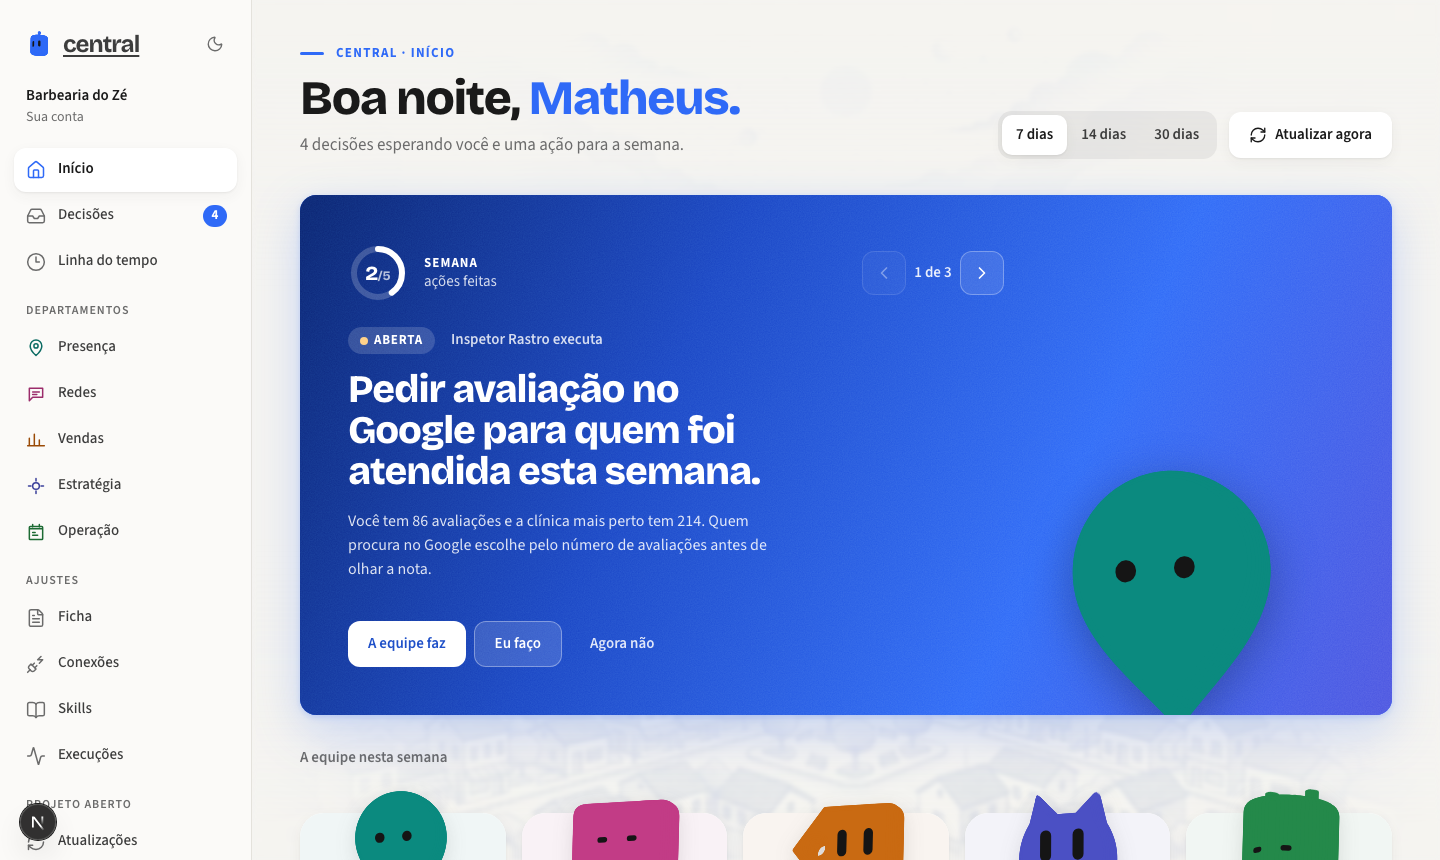
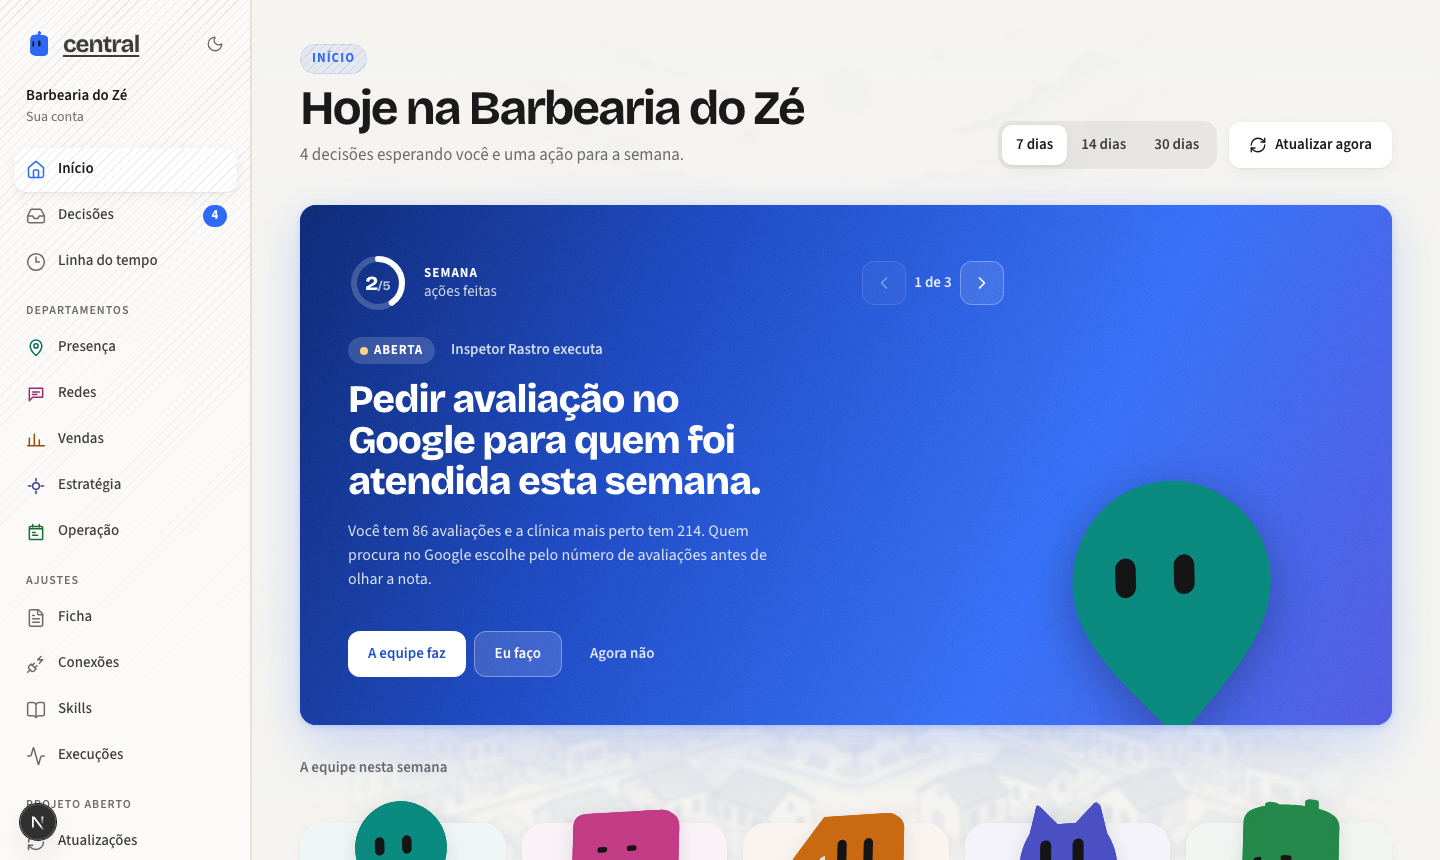
style: hachura no padrão do Garimpo (cor do chefe, hover, faixa do topo) e sidebar premium

diff --git a/src/app/globals.css b/src/app/globals.css
@@ -36,31 +36,71 @@ button, input, select, textarea { font: inherit; }
   line-height: 1;
 }
 
-/* ---------- Hachura premium (mesma do Garimpo): listras finas a 135°, que somem do canto. */
-:root { --hachura: rgba(15, 20, 25, 0.075); }
-@media (prefers-color-scheme: dark) { :root { --hachura: rgba(255, 255, 255, 0.07); } }
-.central[data-tema="escuro"] { --hachura: rgba(255, 255, 255, 0.07); }
-.central[data-tema="claro"] { --hachura: rgba(15, 20, 25, 0.075); }
-.cx-lateral, .cx-painel, .ac-lado, .ac-membro, .cx-chefe-card, .cx-cabeca { position: relative; isolation: isolate; }
-.cx-lateral::before, .cx-painel::before, .ac-lado::before, .cx-chefe-card::before {
-  content: ""; position: absolute; inset: 0; z-index: -1; border-radius: inherit; pointer-events: none;
-  background-image: repeating-linear-gradient(135deg, var(--hachura) 0 1px, transparent 1px 7px);
+/* ---------- Hachura premium (a do Garimpo, refinada).
+   Listras finas a 135°, mais fortes no canto superior direito e sumindo.
+   - todo cartão tem; nos departamentos a listra pega a cor do chefe;
+   - no hover a hachura acende um pouco;
+   - a área principal e a sidebar têm uma faixa hachurada no topo com brilho. */
+:root { --hachura: rgba(15, 20, 25, 0.075); --hachura-forte: rgba(15, 20, 25, 0.12); }
+@media (prefers-color-scheme: dark) { :root { --hachura: rgba(255, 255, 255, 0.065); --hachura-forte: rgba(255, 255, 255, 0.11); } }
+.central[data-tema="claro"] { --hachura: rgba(15, 20, 25, 0.075); --hachura-forte: rgba(15, 20, 25, 0.12); }
+.central[data-tema="escuro"] { --hachura: rgba(255, 255, 255, 0.065); --hachura-forte: rgba(255, 255, 255, 0.11); }
+
+.cx-painel, .cx-chefe-card, .cx-card, .cx-cardapio-card, .cx-carta, .ac-membro, .ac-miolo, .cx-pedagio-lista li, .cx-lista-at > li {
+  position: relative;
+  isolation: isolate;
+}
+.cx-painel::before, .cx-chefe-card::before, .cx-card::before, .cx-cardapio-card::before, .cx-carta::before, .ac-membro::before, .ac-miolo::before,
+.cx-pedagio-lista li::before, .cx-lista-at > li::before {
+  content: "";
+  position: absolute;
+  inset: 0;
+  z-index: -1;
+  border-radius: inherit;
+  pointer-events: none;
+  background-image: repeating-linear-gradient(135deg, var(--listra, var(--hachura)) 0 1px, transparent 1px 7px);
   -webkit-mask-image: radial-gradient(130% 95% at 100% 0%, #000 0%, rgba(0, 0, 0, 0.35) 45%, transparent 75%);
   mask-image: radial-gradient(130% 95% at 100% 0%, #000 0%, rgba(0, 0, 0, 0.35) 45%, transparent 75%);
+  transition: opacity 200ms ease-out;
+  opacity: 0.9;
 }
-/* Alterna: um painel sim, outro não, para não cansar. */
-.cx-painel:nth-of-type(even)::before { display: none; }
-.cx-lateral::before { -webkit-mask-image: linear-gradient(180deg, #000, rgba(0, 0, 0, 0.25) 60%, transparent); mask-image: linear-gradient(180deg, #000, rgba(0, 0, 0, 0.25) 60%, transparent); }
-.ac-lado::before { -webkit-mask-image: radial-gradient(90% 70% at 100% 0%, #000, transparent 75%); mask-image: radial-gradient(90% 70% at 100% 0%, #000, transparent 75%); }
+/* A listra na cor do chefe, quando o cartão é de um chefe. */
+[data-chefe] .cx-painel, .cx-painel[data-chefe], .cx-chefe-card[data-chefe], [data-chefe].cx-card {
+  --listra: color-mix(in srgb, var(--chefe, currentColor) 16%, transparent);
+}
+@media (hover: hover) {
+  .cx-chefe-card:hover::before, .cx-card:hover::before, .cx-cardapio-card:hover::before, .cx-lista-at > li:hover::before, a.cx-painel:hover::before { opacity: 1; --hachura: var(--hachura-forte); }
+}
+/* Borda fina, como a caixa do Garimpo. */
+.cx-painel, .cx-chefe-card, .cx-card { box-shadow: var(--cx-sombra), inset 0 0 0 1px color-mix(in srgb, currentColor 6%, transparent); }
 
-/* Sidebar premium: superfície com borda fina, item ativo em cartão com hachura. */
-.cx-lateral { box-shadow: inset -1px 0 0 var(--cx-linha, rgba(0,0,0,0.06)); }
-.cx-nav-item[aria-current="page"] { position: relative; isolation: isolate; box-shadow: 0 1px 2px rgba(0,0,0,0.06), inset 0 0 0 1px var(--cx-linha, rgba(0,0,0,0.06)); }
+/* Faixa do topo: brilho + hachura que some para baixo (área principal e sidebar). */
+.cx-principal::before, .cx-lateral::before, .cx-ob::before, .ac-lado::before {
+  content: "";
+  position: absolute;
+  inset: 0 0 auto 0;
+  height: 340px;
+  z-index: 0;
+  pointer-events: none;
+  background-image:
+    radial-gradient(60% 100% at 85% 0%, color-mix(in srgb, #2f6af7 10%, transparent), transparent 70%),
+    repeating-linear-gradient(135deg, var(--hachura) 0 1px, transparent 1px 7px);
+  -webkit-mask-image: linear-gradient(180deg, #000, rgba(0, 0, 0, 0.25) 70%, transparent);
+  mask-image: linear-gradient(180deg, #000, rgba(0, 0, 0, 0.25) 70%, transparent);
+}
+.cx-lateral::before { height: 260px; }
+.ac-lado { position: relative; isolation: isolate; }
+.ac-lado::before { height: 100%; z-index: -1; }
+.cx-lateral { position: sticky; isolation: isolate; box-shadow: inset -1px 0 0 color-mix(in srgb, currentColor 8%, transparent); }
+.cx-lateral > * { position: relative; z-index: 1; }
+
+/* Item ativo da sidebar: cartão com borda e hachura curta. */
+.cx-nav-item[aria-current="page"] { position: relative; isolation: isolate; box-shadow: 0 1px 2px rgba(0, 0, 0, 0.06), inset 0 0 0 1px color-mix(in srgb, currentColor 10%, transparent); }
 .cx-nav-item[aria-current="page"]::after {
   content: ""; position: absolute; inset: 0; z-index: -1; border-radius: inherit; pointer-events: none;
   background-image: repeating-linear-gradient(135deg, var(--hachura) 0 1px, transparent 1px 6px);
+  -webkit-mask-image: linear-gradient(90deg, transparent 30%, #000); mask-image: linear-gradient(90deg, transparent 30%, #000);
 }
-.cx-nav-rotulo { letter-spacing: 0.12em; }
 
 /* Cabeçalho novo: sem traço, sem nome em azul e sem ponto. A seção vira um selo. */
 .cx-traco, .cx-ponto { display: none !important; }
@@ -73,3 +113,71 @@ button, input, select, textarea { font: inherit; }
   box-shadow: inset 0 0 0 1px color-mix(in srgb, currentColor 14%, transparent);
 }
 .cx-titulo { font-weight: 700 !important; letter-spacing: -0.045em !important; }
+
+/* Login: o lado do formulário inteiro com hachura que desce do topo; cards da equipe alternando. */
+.ac-miolo { position: relative; padding: 36px 28px !important; border-radius: 24px; background: color-mix(in srgb, var(--ac-superficie) 72%, transparent); border: 1px solid var(--ac-linha); box-shadow: 0 1px 2px rgba(0,0,0,0.04), 0 24px 60px -30px rgba(15,20,25,0.35); backdrop-filter: blur(6px); flex: 0 1 auto !important; margin-block: auto !important; }
+
+/* Cartão do Norte (azul): hachura branca saindo do canto, por baixo do conteúdo. */
+.cx-norte { --listra-norte: rgba(255, 255, 255, 0.1); }
+.cx-norte::after {
+  content: ""; position: absolute; inset: 0; z-index: -1; border-radius: inherit; pointer-events: none;
+  background-image: repeating-linear-gradient(135deg, var(--listra-norte) 0 1px, transparent 1px 8px);
+  -webkit-mask-image: radial-gradient(90% 90% at 100% 0%, #000, rgba(0, 0, 0, 0.3) 50%, transparent 80%);
+  mask-image: radial-gradient(90% 90% at 100% 0%, #000, rgba(0, 0, 0, 0.3) 50%, transparent 80%);
+}
+
+/* ---------- Sidebar premium (no padrão do Garimpo, um passo além). */
+.cx-lateral {
+  background:
+    radial-gradient(120% 40% at 0% 0%, color-mix(in srgb, #2f6af7 9%, transparent), transparent 60%),
+    linear-gradient(180deg, var(--cx-card), var(--cx-lateral) 55%) !important;
+}
+.cx-logo { flex-direction: column; align-items: flex-start !important; gap: 2px; text-decoration: none; color: var(--cx-tinta); }
+.cx-logo-sub { white-space: nowrap; padding-left: 39px; font-size: 11px; font-weight: 600; color: var(--cx-tinta-3); letter-spacing: 0.01em; }
+
+/* Cartão da empresa com o status da equipe. */
+.cx-negocio {
+  margin: 0 4px; padding: 12px 14px !important; border-radius: 14px; text-decoration: none;
+  background: color-mix(in srgb, var(--cx-card) 82%, transparent);
+  box-shadow: var(--cx-sombra), inset 0 0 0 1px color-mix(in srgb, currentColor 7%, transparent);
+  position: relative; isolation: isolate; transition: box-shadow 160ms ease-out, transform 160ms ease-out;
+}
+.cx-negocio::before {
+  content: ""; position: absolute; inset: 0; z-index: -1; border-radius: inherit; pointer-events: none;
+  background-image: repeating-linear-gradient(135deg, var(--hachura) 0 1px, transparent 1px 6px);
+  -webkit-mask-image: radial-gradient(120% 100% at 100% 0%, #000, transparent 75%); mask-image: radial-gradient(120% 100% at 100% 0%, #000, transparent 75%);
+}
+@media (hover: hover) { .cx-negocio:hover { transform: translateY(-1px); box-shadow: var(--cx-sombra-alta); } }
+.cx-negocio-status { display: flex; align-items: center; gap: 7px; margin-top: 10px; padding-top: 10px; border-top: 1px solid color-mix(in srgb, currentColor 8%, transparent); font-size: 12px; font-weight: 600; color: var(--cx-tinta-2); }
+.cx-negocio-equipe { display: inline-flex; margin-right: 2px; }
+.cx-negocio-membro { display: grid; place-items: center; width: 18px; height: 18px; border-radius: 6px; margin-left: -3px; color: var(--chefe); background: color-mix(in srgb, var(--chefe) 14%, var(--cx-card)); box-shadow: 0 0 0 1.5px var(--cx-card); }
+.cx-negocio-membro:first-child { margin-left: 0; }
+.cx-negocio-ponto { width: 7px; height: 7px; border-radius: 50%; background: #22a55a; box-shadow: 0 0 0 3px color-mix(in srgb, #22a55a 22%, transparent); }
+.cx-negocio[data-ia="desligada"] .cx-negocio-ponto { background: #e3ad35; box-shadow: 0 0 0 3px color-mix(in srgb, #e3ad35 25%, transparent); }
+
+/* Rótulo do grupo com a linha que some. */
+.cx-nav-rotulo { display: flex !important; align-items: center; gap: 8px; font-size: 10.5px !important; letter-spacing: 0.1em !important; }
+.cx-nav-rotulo::after { content: ""; height: 1px; flex: 1; background: linear-gradient(90deg, color-mix(in srgb, currentColor 22%, transparent), transparent); }
+
+/* Item: ícone num quadradinho; ativo vira cartão com barra de cor. */
+.cx-nav-item { min-height: 42px !important; gap: 11px !important; padding: 0 10px 0 8px !important; position: relative; }
+.cx-nav-icone, .cx-nav-chefe {
+  display: grid !important; place-items: center; width: 30px; height: 30px; flex: none; border-radius: 9px;
+  color: var(--cx-tinta-3); transition: background-color 180ms ease, color 180ms ease, transform 180ms ease;
+}
+.cx-nav-chefe { color: var(--chefe); background: color-mix(in srgb, var(--chefe) 10%, transparent); }
+@media (hover: hover) { .cx-nav-item:hover .cx-nav-icone { color: var(--cx-tinta); } .cx-nav-item:hover .cx-nav-icone, .cx-nav-item:hover .cx-nav-chefe { transform: scale(1.06); } }
+.cx-nav-item[aria-current="page"] .cx-nav-icone { background: var(--cx-tinta); color: var(--cx-card); }
+.cx-nav-item[aria-current="page"] .cx-nav-chefe { background: var(--chefe); color: #fff; }
+.central[data-tema="escuro"] .cx-nav-item[aria-current="page"] .cx-nav-chefe { color: #111; }
+.cx-nav-item[aria-current="page"]::before {
+  content: ""; position: absolute; left: 0; top: 10px; bottom: 10px; width: 3px; border-radius: 0 3px 3px 0;
+  background: var(--chefe, var(--cx-azul, #2f6af7));
+}
+.cx-nav-item:not([data-chefe])[aria-current="page"]::before { background: var(--cx-azul, #2f6af7); }
+
+/* Rodapé: o cartão da pessoa. */
+.cx-conta-botao {
+  border-radius: 14px !important; background: color-mix(in srgb, var(--cx-card) 82%, transparent) !important;
+  box-shadow: var(--cx-sombra), inset 0 0 0 1px color-mix(in srgb, currentColor 7%, transparent) !important;
+}

diff --git a/src/components/central/barra-lateral.tsx b/src/components/central/barra-lateral.tsx
@@ -26,6 +26,7 @@ export function BarraLateral({
   detalhe,
   pendentes,
   novidades = 0,
+  iaLigada = false,
   usuario,
 }: {
   tema: "claro" | "escuro";
@@ -34,6 +35,8 @@ export function BarraLateral({
   pendentes: number;
   /** Itens novos em Atualizações (versão, projetos, skills). */
   novidades?: number;
+  /** A chave de IA está conectada (os chefes podem trabalhar). */
+  iaLigada?: boolean;
   /** Quem está logado: rodapé com avatar e o menu da conta. */
   usuario: UsuarioMenu;
 }) {
@@ -81,10 +84,12 @@ export function BarraLateral({
   const ativo = (href: string) => (href === "/central" ? caminho === "/central" : caminho.startsWith(href));
   const desenho = (i: Item["icone"]): ReactNode =>
     typeof i === "string" ? (
-      <Icone nome={i} />
+      <span className="cx-nav-icone">
+        <Icone nome={i} tamanho={18} />
+      </span>
     ) : (
       <span data-chefe={i.chefe} className="cx-nav-chefe">
-        <SimboloCx id={i.chefe} tamanho={20} />
+        <SimboloCx id={i.chefe} tamanho={18} />
       </span>
     );
 
@@ -93,6 +98,7 @@ export function BarraLateral({
       <div className="cx-lateral-topo">
         <Link href="/central" className="cx-logo" aria-label="Central · Início">
           <LogoCentral />
+          <span className="cx-logo-sub">empresa no automático</span>
         </Link>
         <div className="cx-lateral-topo-acoes">
           <TemaBotao inicial={tema} />
@@ -117,10 +123,21 @@ export function BarraLateral({
           if ((e.target as HTMLElement).closest("a")) setAberto(false);
         }}
       >
-        <div className="cx-negocio">
+        <Link href={iaLigada ? "/central/ficha" : "/central/conexoes"} className="cx-negocio" data-ia={iaLigada ? "ligada" : "desligada"}>
           <span className="cx-negocio-nome">{nomeNegocio}</span>
           <span className="cx-negocio-detalhe">{detalhe}</span>
-        </div>
+          <span className="cx-negocio-status">
+            <span className="cx-negocio-equipe" aria-hidden="true">
+              {(["rastro", "pauta", "trato", "conselho", "rotina", "norte"] as const).map((id) => (
+                <span key={id} data-chefe={id} className="cx-negocio-membro">
+                  <SimboloCx id={id} tamanho={12} />
+                </span>
+              ))}
+            </span>
+            <span className="cx-negocio-ponto" aria-hidden="true" />
+            {iaLigada ? "Equipe trabalhando" : "Conecte a IA"}
+          </span>
+        </Link>
 
         <nav aria-label="Central" className="cx-nav">
           {grupos.map((g, i) => (
@@ -129,7 +146,7 @@ export function BarraLateral({
               <ul>
                 {g.itens.map((it) => (
                   <li key={it.href}>
-                    <Link href={it.href} className="cx-nav-item" aria-current={ativo(it.href) ? "page" : undefined}>
+                    <Link href={it.href} className="cx-nav-item" data-chefe={typeof it.icone === "string" ? undefined : it.icone.chefe} aria-current={ativo(it.href) ? "page" : undefined}>
                       {desenho(it.icone)}
                       <span>{it.rotulo}</span>
                       {it.contador ? (

diff --git a/src/app/central/layout.tsx b/src/app/central/layout.tsx
@@ -57,7 +57,7 @@ export default async function LayoutCentral({ children }: { children: ReactNode 
 
   return (
     <div className={`${fontes} cx`} data-tema={tema}>
-      <BarraLateral tema={tema} nomeNegocio={c.nomeNegocio} detalhe={detalhe} pendentes={pendentes} novidades={novidades} usuario={usuario} />
+      <BarraLateral tema={tema} nomeNegocio={c.nomeNegocio} detalhe={detalhe} pendentes={pendentes} novidades={novidades} iaLigada={podeGerar} usuario={usuario} />
       <main className="cx-principal">
         <div className="cx-fundo" aria-hidden="true" />
         <div className="cx-conteudo">
